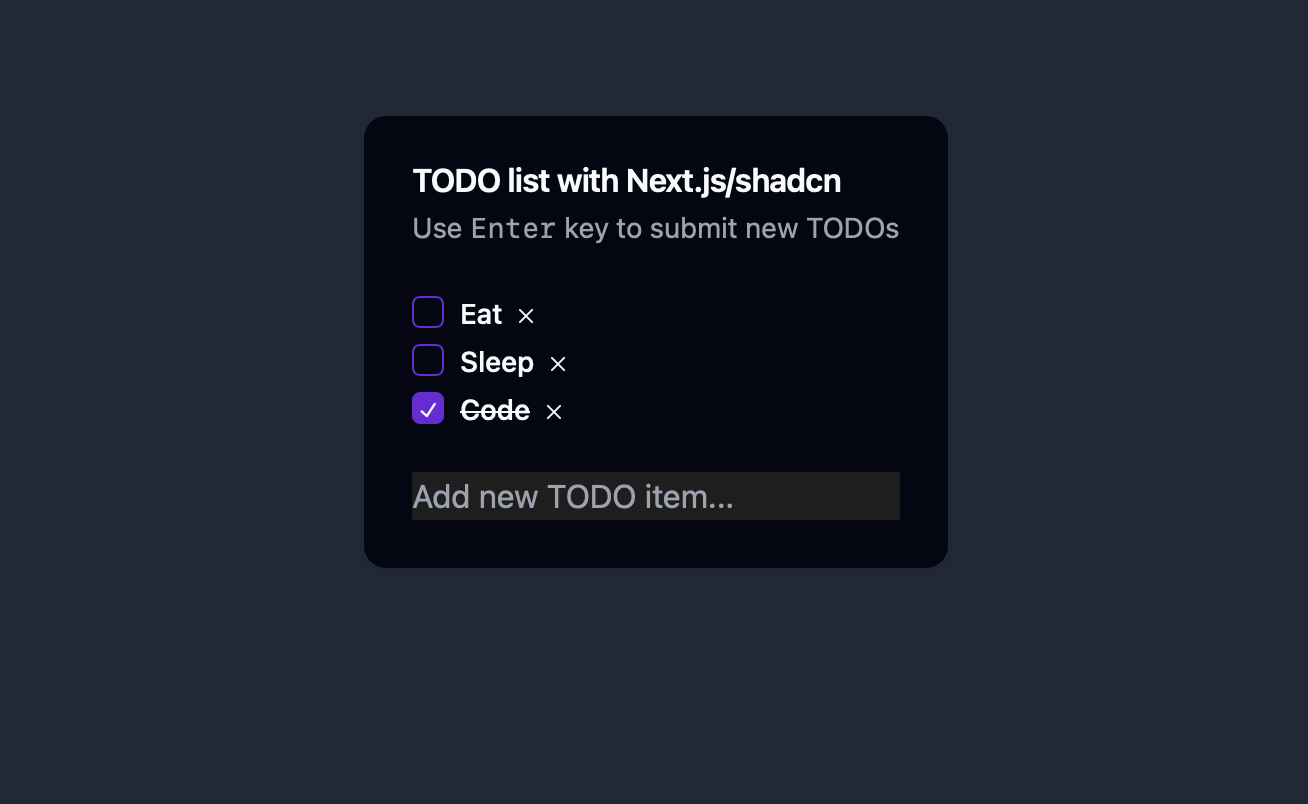
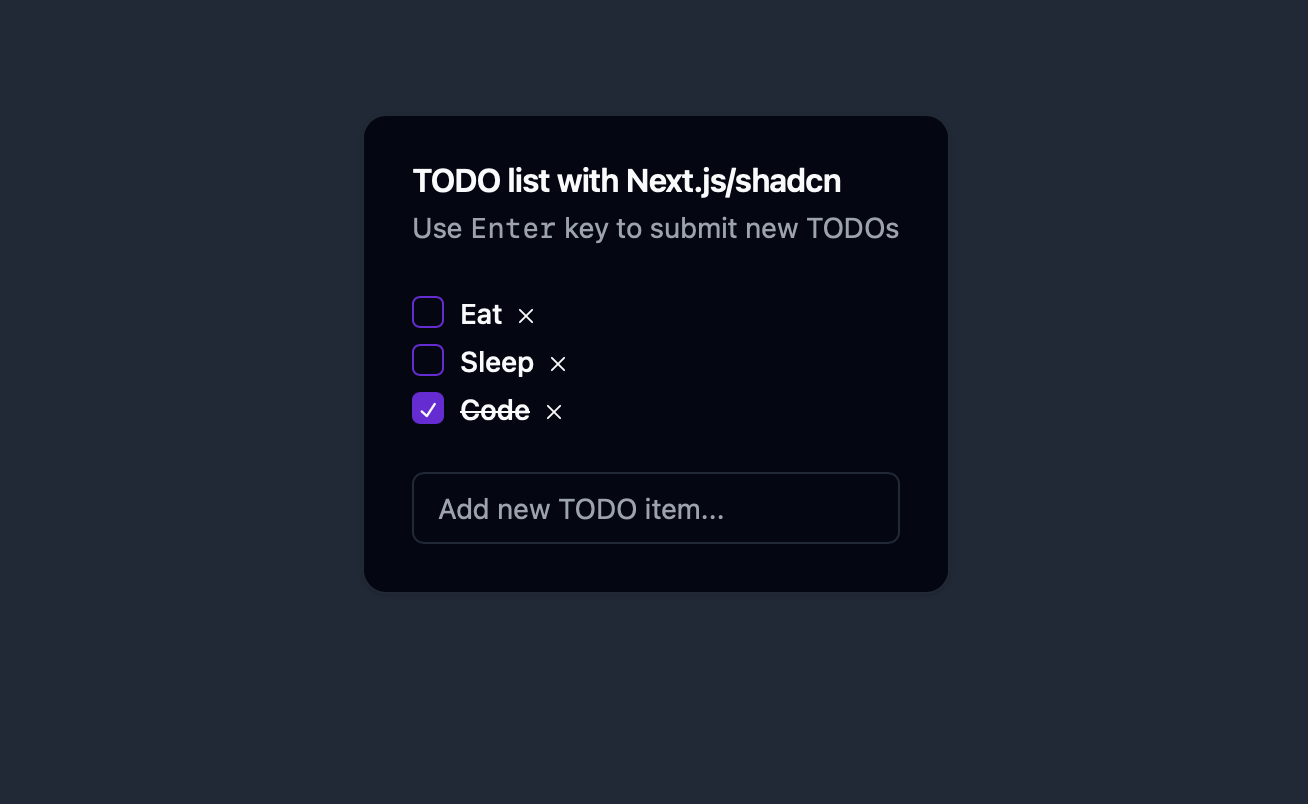
task: use shadcn-Input instead of input; rename clip-rule and fill-rule

Changed region(s): [[0.2752, 0.6841, 0.7339, 0.7463], [0.3058, 0.5908, 0.7034, 0.653]]

diff --git a/app/components/todo/todo.tsx b/app/components/todo/todo.tsx
@@ -11,6 +11,7 @@ import {
   CardTitle,
 } from "@/app/components/ui/card"
 import Link from "next/link"
+import { Input } from "@/app/components/ui/input"
 
 const InitialTODOs = [
 	{
@@ -28,7 +29,7 @@ const InitialTODOs = [
 ]
 
 const Cross2Icon = () => {
-	return (<svg width="12" height="12" viewBox="0 0 15 15" fill="currentColor" xmlns="http://www.w3.org/2000/svg"><path d="M11.7816 4.03157C12.0062 3.80702 12.0062 3.44295 11.7816 3.2184C11.5571 2.99385 11.193 2.99385 10.9685 3.2184L7.50005 6.68682L4.03164 3.2184C3.80708 2.99385 3.44301 2.99385 3.21846 3.2184C2.99391 3.44295 2.99391 3.80702 3.21846 4.03157L6.68688 7.49999L3.21846 10.9684C2.99391 11.193 2.99391 11.557 3.21846 11.7816C3.44301 12.0061 3.80708 12.0061 4.03164 11.7816L7.50005 8.31316L10.9685 11.7816C11.193 12.0061 11.5571 12.0061 11.7816 11.7816C12.0062 11.557 12.0062 11.193 11.7816 10.9684L8.31322 7.49999L11.7816 4.03157Z" fill="currentColor" fill-rule="evenodd" clip-rule="evenodd"></path></svg>)
+	return (<svg width="12" height="12" viewBox="0 0 15 15" fill="currentColor" xmlns="http://www.w3.org/2000/svg"><path d="M11.7816 4.03157C12.0062 3.80702 12.0062 3.44295 11.7816 3.2184C11.5571 2.99385 11.193 2.99385 10.9685 3.2184L7.50005 6.68682L4.03164 3.2184C3.80708 2.99385 3.44301 2.99385 3.21846 3.2184C2.99391 3.44295 2.99391 3.80702 3.21846 4.03157L6.68688 7.49999L3.21846 10.9684C2.99391 11.193 2.99391 11.557 3.21846 11.7816C3.44301 12.0061 3.80708 12.0061 4.03164 11.7816L7.50005 8.31316L10.9685 11.7816C11.193 12.0061 11.5571 12.0061 11.7816 11.7816C12.0062 11.557 12.0062 11.193 11.7816 10.9684L8.31322 7.49999L11.7816 4.03157Z" fill="currentColor" fillRule="evenodd" clipRule="evenodd"></path></svg>)
 }
 
 export default function Todo() {
@@ -111,7 +112,7 @@ export default function Todo() {
 								{todo.text}			
 							</label>
 							</div>
-							<div class="flex flex-col justify-end items-start">
+							<div className="flex flex-col justify-end items-start">
 								<Link onClick={event=>removeTODO(event, index)} href="#"><Cross2Icon/></Link>
 							</div>
 						</div>
@@ -121,7 +122,7 @@ export default function Todo() {
 		</div>
 		</CardContent>
 		<CardFooter>
-		  <input type="text" placeholder="Add new TODO item..." onKeyDown={event=>addTODO(event)}  style={{width: "100%"}}></input>
+		  <Input type="text" placeholder="Add new TODO item..." onKeyDown={event=>addTODO(event)}  style={{width: "100%"}}></Input>
 		</CardFooter>
 	  </Card>
 	)

diff --git a/app/components/ui/input.tsx b/app/components/ui/input.tsx
@@ -1,0 +1,25 @@
+import * as React from "react"
+
+import { cn } from "@/app/lib/utils"
+
+export interface InputProps
+  extends React.InputHTMLAttributes<HTMLInputElement> {}
+
+const Input = React.forwardRef<HTMLInputElement, InputProps>(
+  ({ className, type, ...props }, ref) => {
+    return (
+      <input
+        type={type}
+        className={cn(
+          "flex h-9 w-full rounded-md border border-input bg-transparent px-3 py-1 text-sm shadow-sm transition-colors file:border-0 file:bg-transparent file:text-sm file:font-medium placeholder:text-muted-foreground focus-visible:outline-none focus-visible:ring-1 focus-visible:ring-ring disabled:cursor-not-allowed disabled:opacity-50",
+          className
+        )}
+        ref={ref}
+        {...props}
+      />
+    )
+  }
+)
+Input.displayName = "Input"
+
+export { Input }
